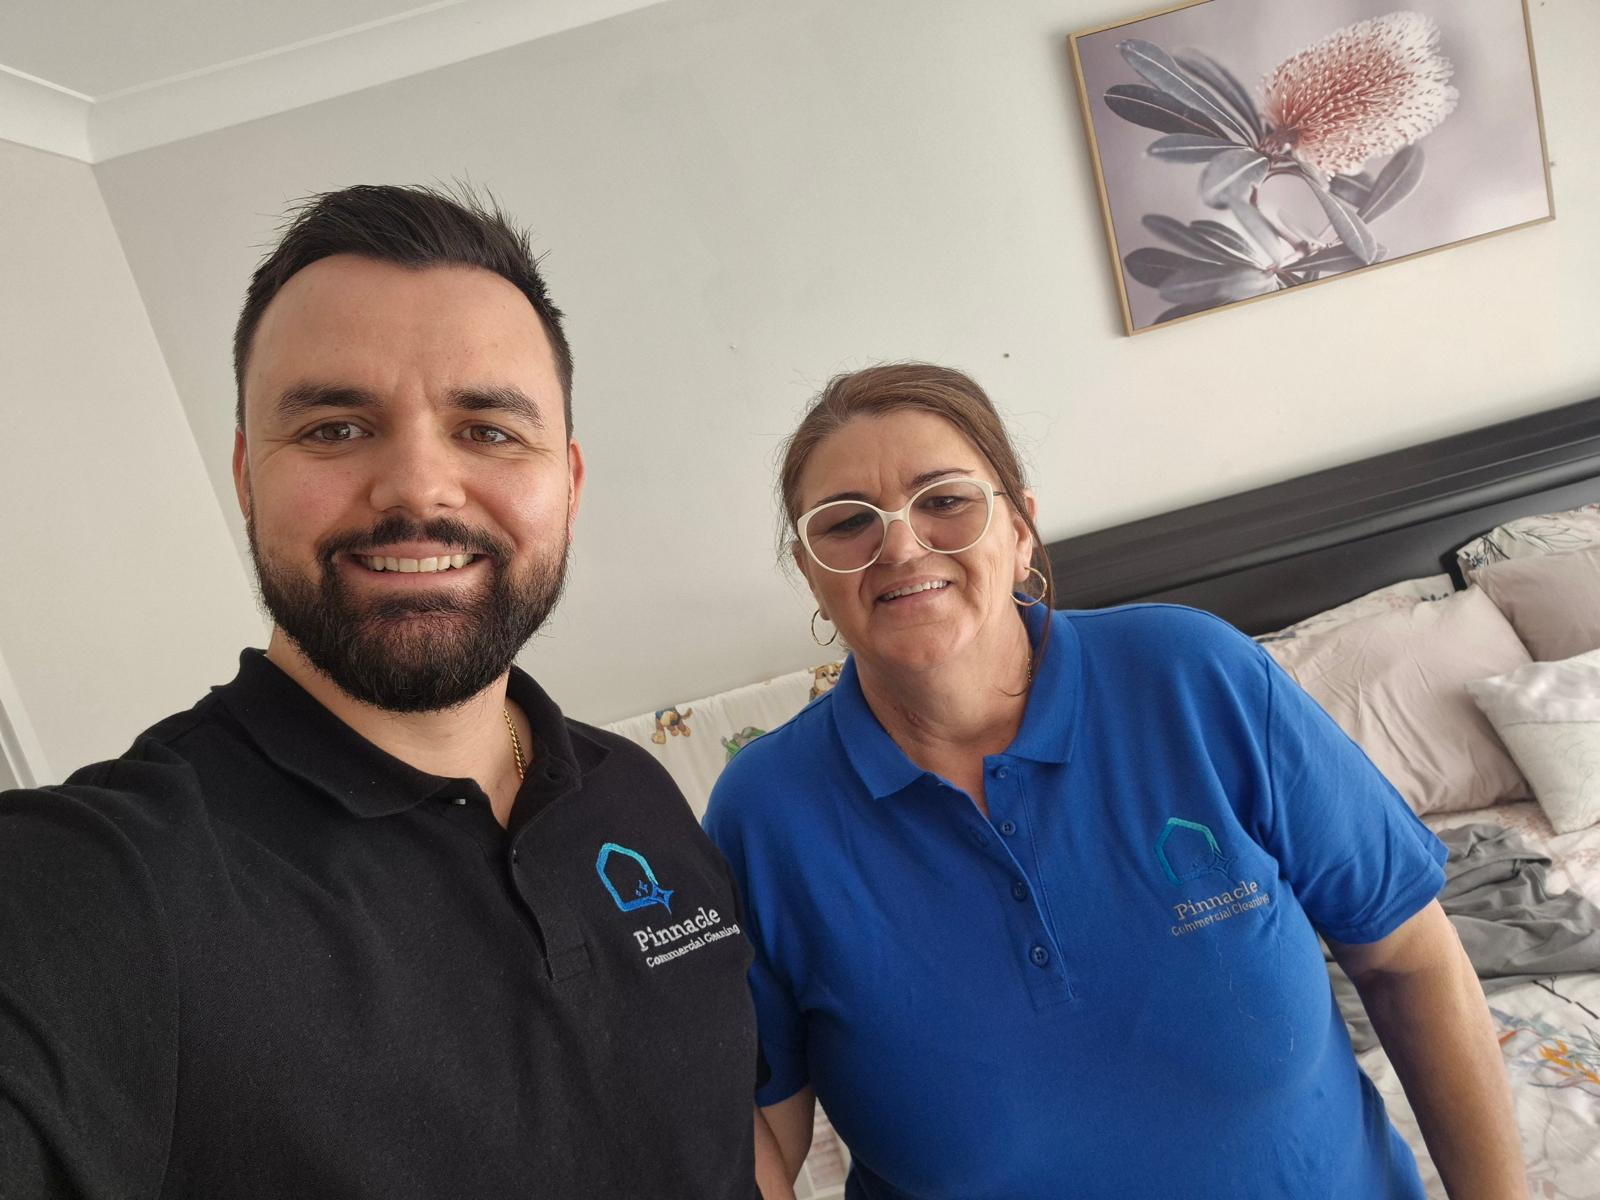
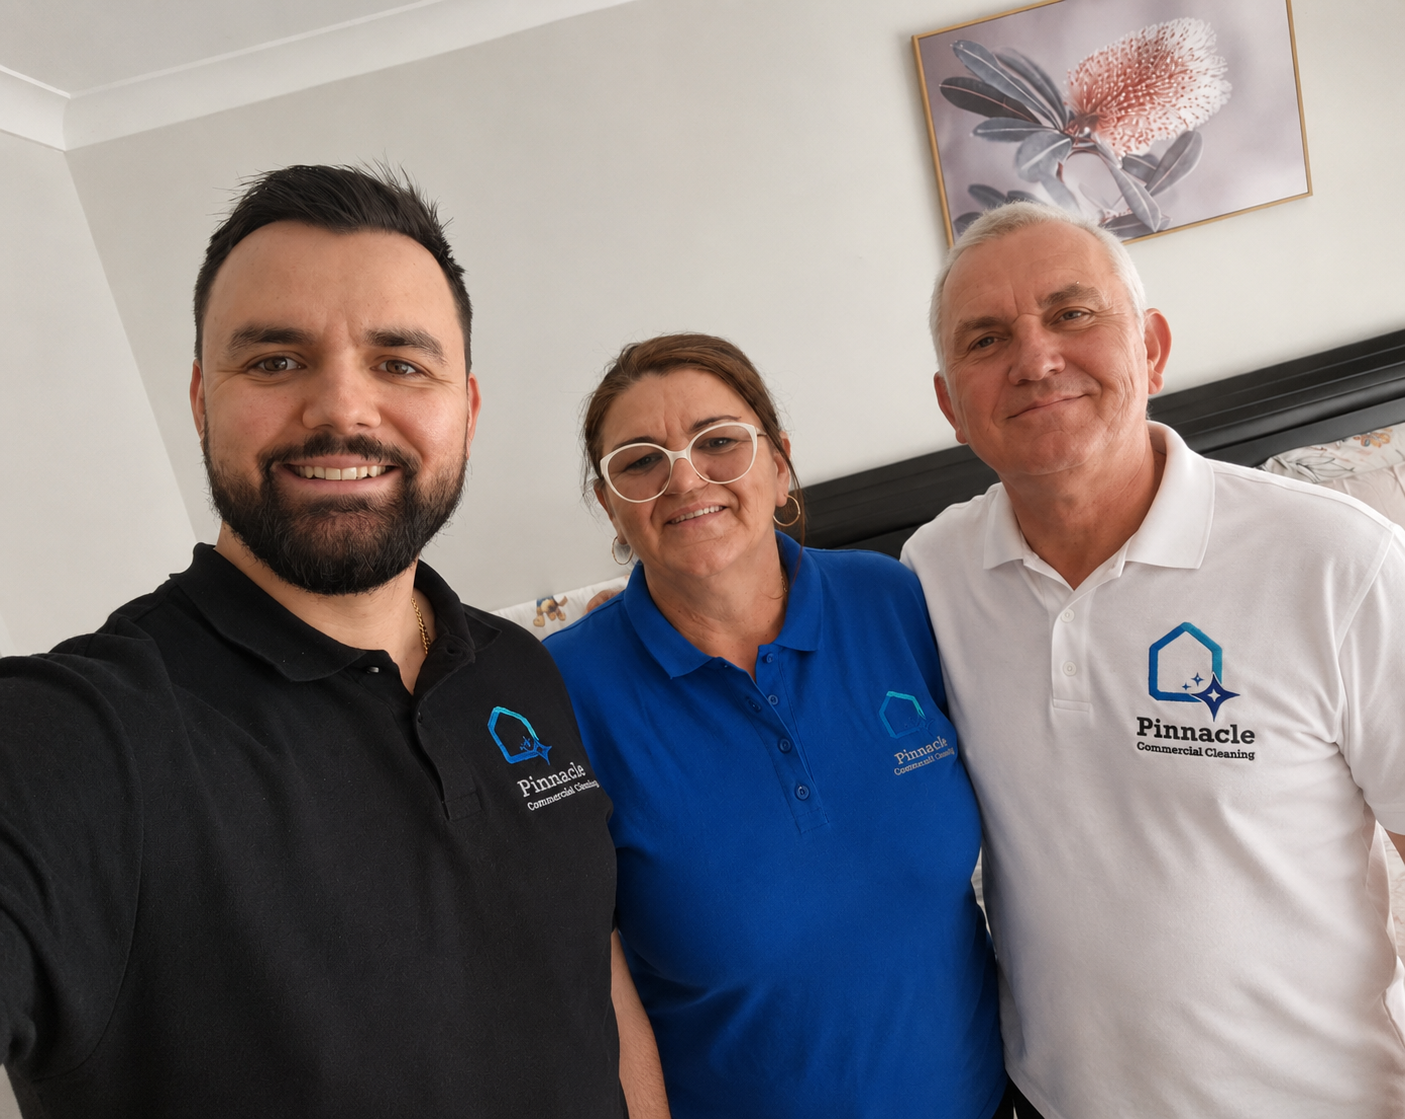
Add files via upload

diff --git a/pinnacle-commercial-cleaning/index.html b/pinnacle-commercial-cleaning/index.html
@@ -13,9 +13,54 @@
     />
     <title>Pinnacle Commercial Cleaning | Sydney Commercial Cleaning Specialists</title>
 
+    <!-- Canonical -->
+    <link rel="canonical" href="https://pinnaclecc.com.au/" />
+
+    <!-- Open Graph -->
+    <meta property="og:type" content="business.business" />
+    <meta property="og:site_name" content="Pinnacle Commercial Cleaning" />
+    <meta property="og:title" content="Pinnacle Commercial Cleaning | Sydney Commercial Cleaning Specialists" />
+    <meta
+        property="og:description"
+        content="Sydney's specialised commercial cleaning company for medical centres, childcare centres, office spaces, display homes and automotive dealerships. Free inspection, quote within 24 hours."
+    />
+    <meta property="og:url" content="https://pinnaclecc.com.au/" />
+    <meta property="og:image" content="https://pinnaclecc.com.au/assets/logo-full.jpg" />
+
     <!-- Favicon -->
     <link rel="icon" type="image/jpeg" href="assets/logo-icon.jpg" />
     <link rel="apple-touch-icon" href="assets/logo-icon.jpg" />
+
+    <!-- Local business structured data -->
+    <script type="application/ld+json">
+    {
+        "@context": "https://schema.org",
+        "@type": "LocalBusiness",
+        "name": "Pinnacle Commercial Cleaning Pty Ltd",
+        "alternateName": "Pinnacle Commercial Cleaning",
+        "image": "https://pinnaclecc.com.au/assets/logo-full.jpg",
+        "logo": "https://pinnaclecc.com.au/assets/logo-full.jpg",
+        "url": "https://pinnaclecc.com.au/",
+        "telephone": "+61413992060",
+        "email": "[email redacted]",
+        "description": "Specialised commercial cleaning for medical centres, childcare centres, office spaces, display homes and automotive dealerships across Sydney and surrounding suburbs.",
+        "address": {
+            "@type": "PostalAddress",
+            "addressLocality": "Sydney",
+            "addressRegion": "NSW",
+            "addressCountry": "AU"
+        },
+        "areaServed": [
+            { "@type": "City", "name": "Sydney" },
+            { "@type": "City", "name": "Parramatta" },
+            { "@type": "City", "name": "Castle Hill" },
+            { "@type": "City", "name": "Hornsby" },
+            { "@type": "City", "name": "Auburn" },
+            { "@type": "City", "name": "Merrylands" }
+        ],
+        "slogan": "Care and Commitment"
+    }
+    </script>
 
     <!-- Preconnect for fonts -->
     <link rel="preconnect" href="https://fonts.googleapis.com" />
@@ -232,7 +277,7 @@
 
                 <div class="service-card">
                     <div class="service-card-media">
-                        <img src="assets/gallery/childcare-01.jpg" alt="Childcare centre cleaning by Pinnacle Commercial Cleaning" loading="lazy" />
+                        <img src="assets/gallery/childcare-05.jpg" alt="Childcare centre cleaning by Pinnacle Commercial Cleaning" loading="lazy" />
                     </div>
                     <h3 class="service-card-title">Childcare Centre Cleaning</h3>
                     <p class="service-card-desc">Safe, thorough cleaning for early learning environments, because nothing matters more than a child's wellbeing.</p>
@@ -248,7 +293,7 @@
 
                 <div class="service-card">
                     <div class="service-card-media">
-                        <img src="assets/gallery/office-01.jpg" alt="Office cleaning by Pinnacle Commercial Cleaning" loading="lazy" />
+                        <img src="assets/gallery/office-05.jpg" alt="Office cleaning by Pinnacle Commercial Cleaning" loading="lazy" />
                     </div>
                     <h3 class="service-card-title">Medium to Large Office Spaces</h3>
                     <p class="service-card-desc">Reliable, scheduled cleaning that keeps busy workplaces professional, welcoming and productive.</p>
@@ -385,9 +430,9 @@
             <div class="grid sm:grid-cols-2 lg:grid-cols-3 gap-5 mt-10" id="gallery-grid">
                 <div class="gallery-item" data-cat="automotive" data-featured="true"><img src="assets/gallery/automotive-01.jpg" alt="Automotive dealership showroom cleaned by Pinnacle" loading="lazy" /><span class="gallery-tag">Dealership</span></div>
                 <div class="gallery-item" data-cat="medical" data-featured="true"><img src="assets/gallery/medical-06.jpg" alt="Medical centre cleaning in progress" loading="lazy" /><span class="gallery-tag">Medical Centre</span></div>
-                <div class="gallery-item" data-cat="childcare" data-featured="true"><img src="assets/gallery/childcare-01.jpg" alt="Childcare centre classroom cleaned by Pinnacle" loading="lazy" /><span class="gallery-tag">Childcare Centre</span></div>
+                <div class="gallery-item" data-cat="childcare" data-featured="true"><img src="assets/gallery/childcare-05.jpg" alt="Childcare centre classroom cleaned by Pinnacle" loading="lazy" /><span class="gallery-tag">Childcare Centre</span></div>
                 <div class="gallery-item" data-cat="display" data-featured="true"><img src="assets/gallery/display-01.jpg" alt="Display home living area cleaned by Pinnacle" loading="lazy" /><span class="gallery-tag">Display Home</span></div>
-                <div class="gallery-item" data-cat="office" data-featured="true"><img src="assets/gallery/office-01.jpg" alt="Office space cleaned by Pinnacle" loading="lazy" /><span class="gallery-tag">Office Space</span></div>
+                <div class="gallery-item" data-cat="office" data-featured="true"><img src="assets/gallery/office-05.jpg" alt="Office space cleaned by Pinnacle" loading="lazy" /><span class="gallery-tag">Office Space</span></div>
                 <div class="gallery-item" data-cat="medical"><img src="assets/gallery/medical-02.jpg" alt="Dental surgery cleaning" loading="lazy" /><span class="gallery-tag">Medical Centre</span></div>
                 <div class="gallery-item" data-cat="childcare"><img src="assets/gallery/childcare-02.jpg" alt="Childcare centre reading corner cleaned by Pinnacle" loading="lazy" /><span class="gallery-tag">Childcare Centre</span></div>
                 <div class="gallery-item" data-cat="display"><img src="assets/gallery/display-02.jpg" alt="Display home hallway cleaned by Pinnacle" loading="lazy" /><span class="gallery-tag">Display Home</span></div>
@@ -399,7 +444,9 @@
                 <div class="gallery-item" data-cat="childcare"><img src="assets/gallery/childcare-04.jpg" alt="Childcare centre activity room cleaned by Pinnacle" loading="lazy" /><span class="gallery-tag">Childcare Centre</span></div>
                 <div class="gallery-item" data-cat="display"><img src="assets/gallery/display-04.jpg" alt="Display home pool terrace cleaned by Pinnacle" loading="lazy" /><span class="gallery-tag">Display Home</span></div>
                 <div class="gallery-item" data-cat="medical"><img src="assets/gallery/medical-05.jpg" alt="Paediatric dental room cleaned by Pinnacle" loading="lazy" /><span class="gallery-tag">Medical Centre</span></div>
-                <div class="gallery-item" data-cat="childcare"><img src="assets/gallery/childcare-05.jpg" alt="Childcare centre toy area cleaned by Pinnacle" loading="lazy" /><span class="gallery-tag">Childcare Centre</span></div>
+                <div class="gallery-item" data-cat="childcare"><img src="assets/gallery/childcare-01.jpg" alt="Childcare centre toy area cleaned by Pinnacle" loading="lazy" /><span class="gallery-tag">Childcare Centre</span></div>
+                <div class="gallery-item" data-cat="office"><img src="assets/gallery/office-01.jpg" alt="Corporate meeting room cleaned by Pinnacle" loading="lazy" /><span class="gallery-tag">Office Space</span></div>
+                <div class="gallery-item" data-cat="office"><img src="assets/gallery/office-04.jpg" alt="Office reception area cleaned by Pinnacle" loading="lazy" /><span class="gallery-tag">Office Space</span></div>
                 <div class="gallery-item" data-cat="office"><img src="assets/gallery/office-03.jpg" alt="Commercial fitness facility cleaned by Pinnacle" loading="lazy" /><span class="gallery-tag">Office &amp; Facility</span></div>
             </div>
         </div>
@@ -421,10 +468,10 @@
             </div>
 
             <div class="flex justify-center mt-12">
-                <img src="assets/team-together.jpg" alt="Bojan and Lana Bliznjakovic, the team behind Pinnacle Commercial Cleaning" class="rounded-3xl shadow-2xl max-w-xl w-full h-auto" loading="lazy" />
+                <img src="assets/team-together.jpg" alt="Bojan, Lana and Milenko Bliznjakovic, the team behind Pinnacle Commercial Cleaning" class="rounded-3xl shadow-2xl max-w-xl w-full h-auto" loading="lazy" />
             </div>
 
-            <div class="grid sm:grid-cols-2 gap-8 mt-12 max-w-3xl mx-auto">
+            <div class="grid sm:grid-cols-2 lg:grid-cols-3 gap-8 mt-12 max-w-4xl mx-auto">
                 <div class="team-card">
                     <div class="team-card-avatar">BB</div>
                     <h3 class="team-card-name">Bojan Bliznjakovic</h3>
@@ -436,6 +483,12 @@
                     <h3 class="team-card-name">Lana Bliznjakovic</h3>
                     <p class="team-card-role">Quality Control Manager</p>
                     <p class="team-caption">Personally ensures every site meets the Pinnacle standard, assigned to your business at no extra cost.</p>
+                </div>
+                <div class="team-card">
+                    <div class="team-card-avatar">MB</div>
+                    <h3 class="team-card-name">Milenko Bliznjakovic</h3>
+                    <p class="team-card-role">Operations Manager</p>
+                    <p class="team-caption">Ensures every job is completed safely and to Australian industry standards, leading quality inspections and the training of our cleaning team.</p>
                 </div>
             </div>
         </div>
@@ -510,12 +563,12 @@
                                 <p class="text-slate-400 text-sm">Bojan Bliznjakovic, Managing Director</p>
                             </div>
                         </a>
-                        <a href="mailto:[email redacted]" class="contact-info-row">
+                        <a href="mailto:[email redacted]" class="contact-info-row">
                             <div class="contact-info-icon">
                                 <svg class="w-5 h-5" fill="none" viewBox="0 0 24 24" stroke="currentColor" stroke-width="2"><path stroke-linecap="round" stroke-linejoin="round" d="M21.75 6.75v10.5a2.25 2.25 0 01-2.25 2.25h-15a2.25 2.25 0 01-2.25-2.25V6.75m19.5 0a2.25 2.25 0 00-2.25-2.25h-15a2.25 2.25 0 00-2.25 2.25m19.5 0v.243a2.25 2.25 0 01-1.07 1.916l-7.5 4.615a2.25 2.25 0 01-2.36 0L3.32 8.91a2.25 2.25 0 01-1.07-1.916V6.75" /></svg>
                             </div>
                             <div>
-                                <p class="text-white font-semibold">[email redacted]</p>
+                                <p class="text-white font-semibold">[email redacted]</p>
                                 <p class="text-slate-400 text-sm">We reply within one business day</p>
                             </div>
                         </a>
@@ -532,7 +585,7 @@
                 </div>
 
                 <div class="lg:col-span-3">
-                    <form id="quote-form" class="bg-white rounded-3xl shadow-2xl p-7 sm:p-10" action="https://formspree.io/f/YOUR_FORM_ID" method="POST">
+                    <form id="quote-form" class="bg-white rounded-3xl shadow-2xl p-7 sm:p-10" action="https://formspree.io/f/xojgwvjg" method="POST">
                         <div id="form-success" class="hidden text-center py-10">
                             <div class="mx-auto w-14 h-14 rounded-full bg-brand-100 flex items-center justify-center mb-4">
                                 <svg class="w-7 h-7 text-brand-600" fill="none" viewBox="0 0 24 24" stroke="currentColor" stroke-width="2"><path stroke-linecap="round" stroke-linejoin="round" d="M4.5 12.75l6 6 9-13.5" /></svg>
@@ -617,14 +670,14 @@
                     <h4 class="footer-heading">Contact</h4>
                     <ul class="footer-list">
                         <li><a href="tel:+61413992060">0413 992 060</a></li>
-                        <li><a href="mailto:[email redacted]">[email redacted]</a></li>
+                        <li><a href="mailto:[email redacted]">[email redacted]</a></li>
                         <li class="text-slate-400">Sydney &amp; Surrounding Suburbs</li>
                         <li><a href="#contact" class="text-brand-300 font-semibold">Book a Free Inspection →</a></li>
                     </ul>
                 </div>
             </div>
             <div class="border-t border-white/10 mt-12 pt-6 flex flex-col sm:flex-row items-center justify-between gap-3">
-                <p class="text-slate-500 text-xs">&copy; <span id="year"></span> Pinnacle Commercial Cleaning. All rights reserved.</p>
+                <p class="text-slate-500 text-xs">&copy; <span id="year"></span> Pinnacle Commercial Cleaning Pty Ltd. All rights reserved.</p>
                 <p class="text-slate-500 text-xs italic">"Care and Commitment"</p>
             </div>
         </div>